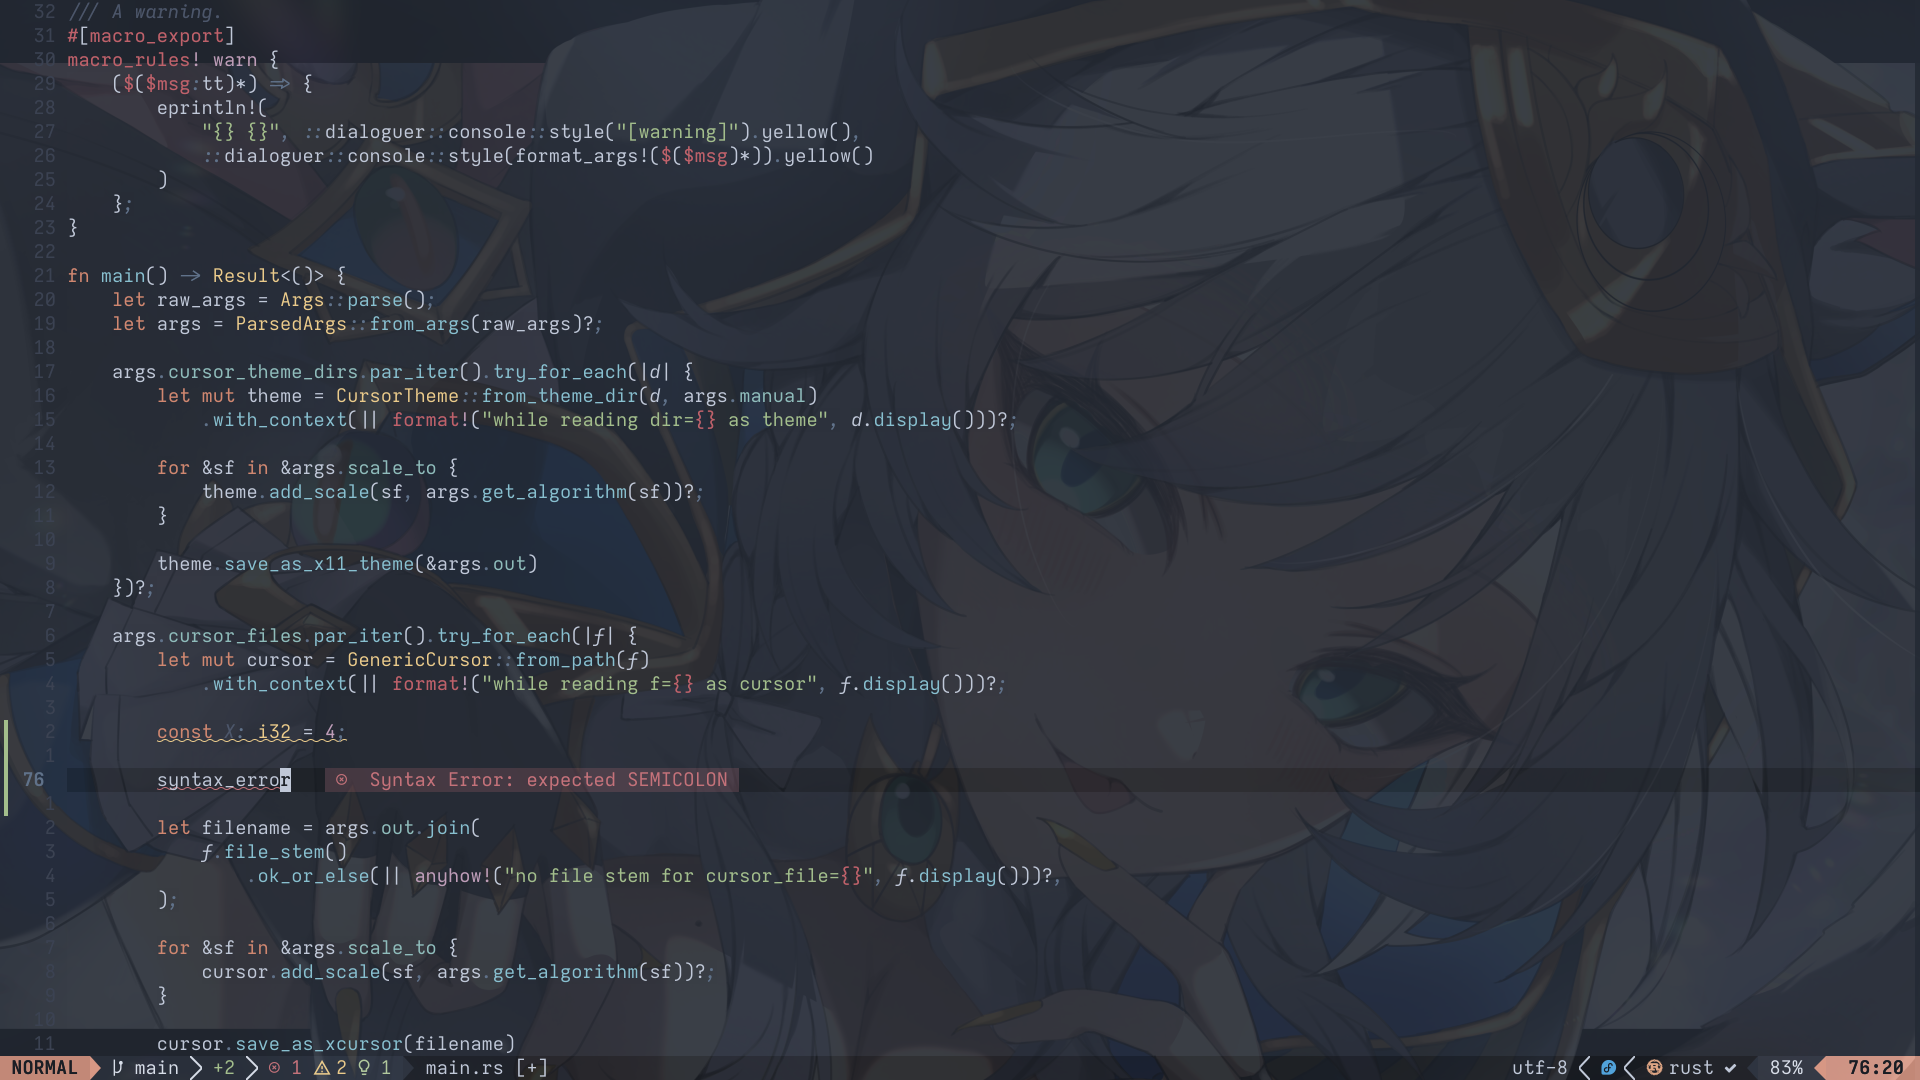
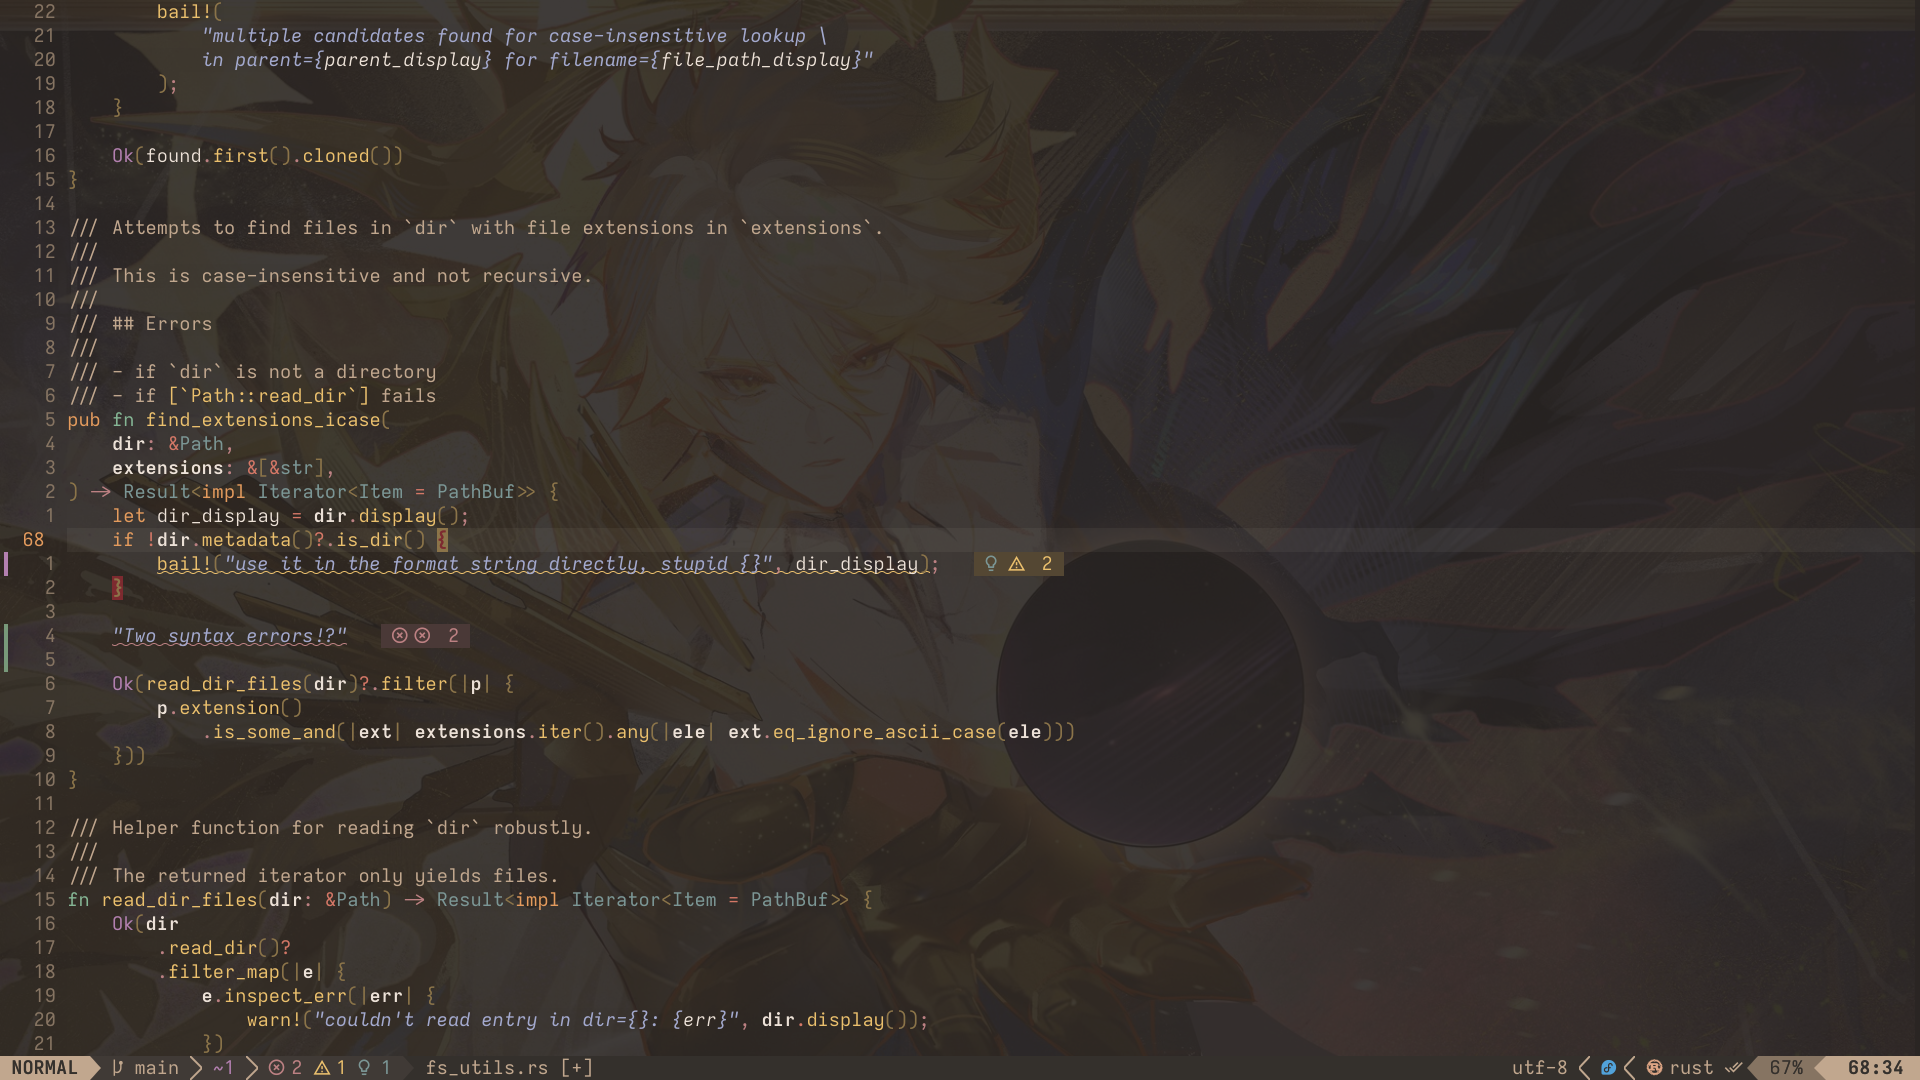
swag

diff --git a/README.md b/README.md
@@ -46,7 +46,7 @@ This list excludes any colorschemes.
 
 # Showcase
 
-Neovide, 20% transparency, [Nordic theme](https://github.com/alexvzyl/nordic.nvim), custom Iosevka
-build, Cipher from hit game _Honkers Railway_ ([creds](https://www.pixiv.net/en/artworks/128665632)).
+Neovide, 20% transparency, [Melange theme](https://github.com/savq/melange-nvim), a
+custom Iosevka build and [this wallpaper](https://danbooru.donmai.us/posts/10183325)
 
 ![A screenshot of some Rust code with this config](./showcase.png)
